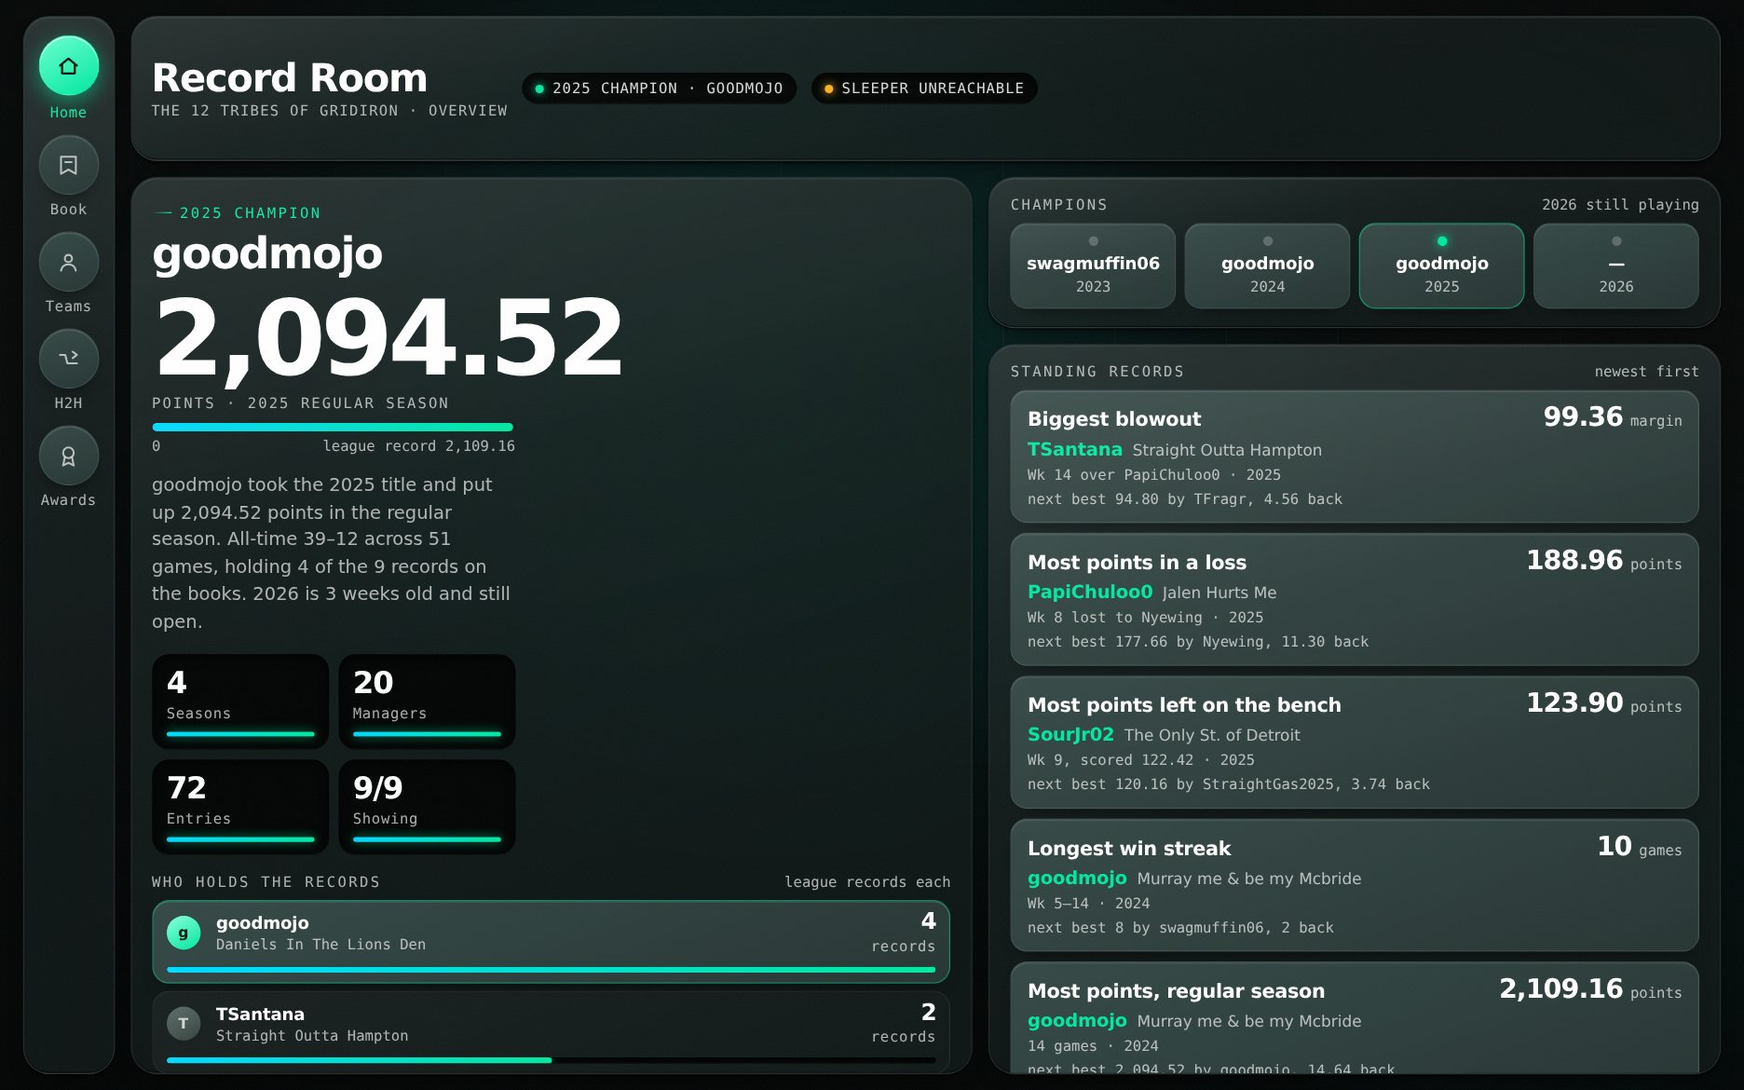
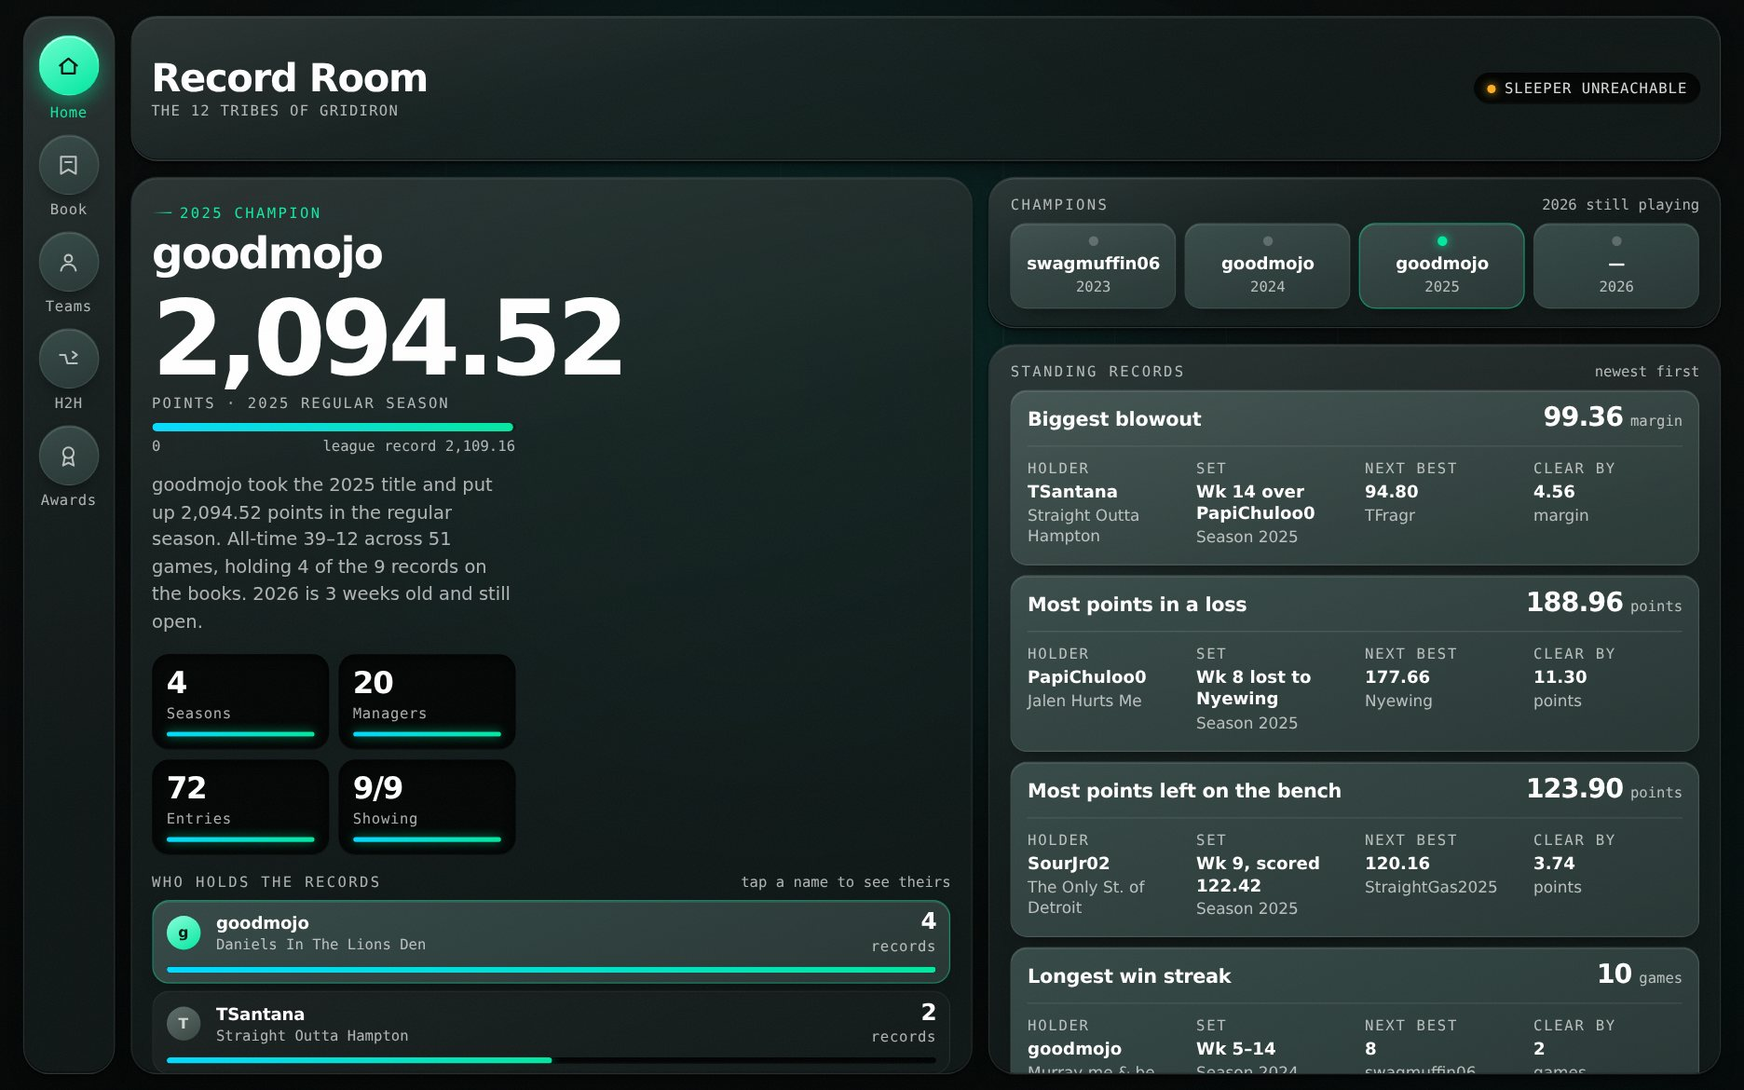
Give the standing records structure, trim the header, open a holder
The standing records read as a paragraph: four lines of similar weight with
nothing marking where one fact ended and the next began. Each record is now a
headline and value across the top, a rule, then four labelled fields -- holder
with their team that season, when it was set, the next best mark and who holds
it, and how far clear the record is. Long values wrap rather than truncate,
since "Wk 14 over Pa..." helps nobody.

The header carried the champion twice over: the hero states it directly below
and the champions panel sits beside it, and the page name repeated the dock
that already marks the page. Both are gone, leaving the app name, the league
and the live status.

The holders list is now clickable and opens that manager, which is where their
records already live. Verified: clicking the top row opens goodmojo with six
records listed.

Claude-Session: https://claude.ai/code/session_01TiNMvjTDK6Q7mnYRtzpeH8

diff --git a/public/index.html b/public/index.html
@@ -193,8 +193,16 @@ button{font:inherit;color:inherit}
 .tile .tb{height:4px;border-radius:999px;margin-top:8px;
   background:linear-gradient(90deg,var(--accent-2),var(--accent));box-shadow:0 0 8px rgba(0,232,160,.55)}
 .rtop{display:flex;align-items:baseline;justify-content:space-between;gap:12px}
-.rnext{display:block;font-family:var(--mono);font-size:12px;color:var(--ink-3);margin-top:6px;
-  overflow:hidden;text-overflow:ellipsis;white-space:nowrap}
+.rvwrap{flex:none;white-space:nowrap}
+.rmeta{display:grid;grid-template-columns:repeat(auto-fit,minmax(118px,1fr));gap:12px 16px;align-items:start;
+  margin-top:11px;padding-top:11px;border-top:1px solid rgba(255,255,255,.1)}
+.rf{min-width:0}
+.rfk{display:block;font-family:var(--mono);font-size:12px;letter-spacing:.11em;text-transform:uppercase;
+  color:var(--ink-3)}
+.rfv{display:block;font-size:14px;font-weight:600;margin-top:4px;line-height:1.3;
+  white-space:normal;overflow-wrap:break-word}
+.rfs{display:block;font-size:13px;color:var(--ink-3);margin-top:3px;line-height:1.3;
+  white-space:normal;overflow-wrap:break-word}
 .ring{display:block;padding:12px 13px;border-radius:var(--r-s);border:1px solid rgba(255,255,255,.08);
   background:linear-gradient(160deg,var(--e2-hi),var(--e2));
   box-shadow:inset 0 1px 0 rgba(255,255,255,.1),0 8px 17px -12px rgba(0,0,0,.97);
@@ -224,7 +232,8 @@ button{font:inherit;color:inherit}
 .hb{display:grid;grid-template-columns:30px minmax(0,1fr) auto;gap:11px;align-items:center;
   padding:8px 11px;border-radius:var(--r-s);border:1px solid rgba(255,255,255,.05);
   background:linear-gradient(160deg,rgba(255,255,255,.048),rgba(255,255,255,.016));transition:transform .15s}
-.hb:hover{transform:translateY(-1px)}
+.hb{cursor:pointer}
+.hb:hover{transform:translateY(-1px);border-color:rgba(0,232,160,.4)}
 .hb.lead{border-color:rgba(0,232,160,.4);background:linear-gradient(160deg,var(--e2-hi),var(--e2));
   box-shadow:inset 0 1px 0 rgba(255,255,255,.12),0 8px 17px -12px rgba(0,0,0,.97)}
 .hb .hav{width:28px;height:28px;border-radius:50%;display:grid;place-items:center;font-family:var(--disp);
@@ -477,10 +486,9 @@ dialog::backdrop{background:rgba(2,5,4,.78);backdrop-filter:blur(3px)}
 
   <div class="col">
     <header class="panel glass bar">
-      <h1>Record Room<span id="crumb">Overview</span></h1>
-      <span class="chip"><i></i><span id="champChip"></span></span>
-      <button class="chip live" id="refreshBtn" type="button" title="Refresh from Sleeper"><i></i><span id="liveMsg">Loading</span></button>
+      <h1>Record Room<span id="crumb"></span></h1>
       <div class="barspace"></div>
+      <button class="chip live" id="refreshBtn" type="button" title="Refresh from Sleeper"><i></i><span id="liveMsg">Loading</span></button>
       <div class="pills" id="seasons" role="group" aria-label="Season" hidden></div>
     </header>
 
@@ -837,9 +845,10 @@ function renderHome(){
   visible().forEach(s=>{const b=best(s,'ALL');if(b)held[b[0]]++;});
   const rank=MGR.map(m=>({...m,held:held[m.name]})).sort((a,b)=>b.held-a.held||b.titles.length-a.titles.length||b.w-a.w);
   const owners=rank.filter(m=>m.held>0).length;
-  $('hbarNote').textContent='league records each';
+  $('hbarNote').textContent='tap a name to see theirs';
   $('hbars').innerHTML=rank.slice(0,8).map((m,i)=>`
-    <div class="hb${i===0?' lead':''}">
+    <div class="hb${i===0?' lead':''}" role="button" tabindex="0" data-m="${m.name}"
+      aria-label="Open ${m.name}">
       <span class="hav${m.titles.length?'':' none'}">${initial(m.name)}</span>
       <span><span class="hn">${m.name}</span><span class="hs">${teamNow(m.name)||'no team name set'}</span></span>
       <span class="hv">${m.held}<em>${m.held===1?'record':'records'}</em></span>
@@ -849,15 +858,20 @@ function renderHome(){
   $('hrecNote').textContent='newest first';
   $('hrecs').innerHTML=standing.map(({s,b})=>{
     const all=entries(s,'ALL'), second=all[1];
-    const gap=second?Math.abs(b[1]-second[1]):0;
+    const gap=second?Math.abs(b[1]-second[1]).toFixed(s.dec):null;
+    const f=(k,v,sub)=>`<div class="rf"><span class="rfk">${k}</span>
+      <span class="rfv">${v}</span>${sub?`<span class="rfs">${sub}</span>`:''}</div>`;
     return `<div class="ring">
       <div class="rtop">
         <div class="rlab">${s.name}</div>
-        <div><span class="rval">${fmt(s,b[1])}</span><span class="rvalu">${s.unit}</span></div>
+        <div class="rvwrap"><span class="rval">${fmt(s,b[1])}</span><span class="rvalu">${s.unit}</span></div>
       </div>
-      <div class="rhold"><span class="rman">${b[0]}</span><span class="rteam">${team(b[0],b[3])||''}</span></div>
-      <span class="rsub">${b[2]} · ${b[3]}</span>
-      ${second?`<span class="rnext">next best ${fmt(s,second[1])} by ${second[0]}, ${gap.toFixed(s.dec)} back</span>`:''}
+      <div class="rmeta">
+        ${f('Holder',b[0],team(b[0],b[3])||'no team name')}
+        ${f('Set',b[2],'Season '+b[3])}
+        ${second?f('Next best',fmt(s,second[1]),second[0]):f('Next best','—','only entry')}
+        ${gap?f('Clear by',gap,s.unit):''}
+      </div>
     </div>`;}).join('')
     ||`<div class="empty">No stats showing. Turn some on in the stat filter.</div>`;
 }
@@ -1054,7 +1068,7 @@ function go(p){
   document.querySelectorAll('.page').forEach(el=>el.dataset.on=el.id==='p-'+p?'1':'0');
   document.querySelectorAll('.nav').forEach(b=>{
     if(b.dataset.go===p)b.setAttribute('aria-current','page');else b.removeAttribute('aria-current');});
-  $('crumb').textContent=(DATA.league?DATA.league+' · ':'')+CRUMB[p];
+  $('crumb').textContent=DATA.league||'';
   $('seasons').hidden=p!=='records';
   if(p==='home'){renderHome();}
   if(p==='records'){renderStats();renderBoard();}
@@ -1085,7 +1099,7 @@ document.addEventListener('click',e=>{
   if(e.target.closest('#selNone')){shown.clear();renderStats();renderBoard();return;}
   const nmOpen=e.target.closest('[data-open]');if(nmOpen){
     sel=nmOpen.dataset.open;shown.add(sel);renderStats();renderBoard();return;}
-  const mc=e.target.closest('.mcard');if(mc){openMgr(mc.dataset.m);return;}
+  const mc=e.target.closest('.mcard,.hb');if(mc&&mc.dataset.m){openMgr(mc.dataset.m);return;}
   const pk=e.target.closest('.pk');if(pk&&!pk.disabled){
     if(pk.dataset.pick==='pickA')pA=pk.dataset.name;else pB=pk.dataset.name;
     renderPickers();renderH2H();return;}
@@ -1093,12 +1107,11 @@ document.addEventListener('click',e=>{
 document.addEventListener('keydown',e=>{
   if(e.key!=='Enter'&&e.key!==' ')return;
   const nmOpen=e.target.closest('[data-open]');
-  if(nmOpen){e.preventDefault();sel=nmOpen.dataset.open;shown.add(sel);renderStats();renderBoard();}
+  if(nmOpen){e.preventDefault();sel=nmOpen.dataset.open;shown.add(sel);renderStats();renderBoard();return;}
+  const hb=e.target.closest('.hb');
+  if(hb&&hb.dataset.m){e.preventDefault();openMgr(hb.dataset.m);}
 });
-function paintAll(){
-  $('champChip').textContent=CHAMP_YEAR+' champion · '+CHAMP;
-  paintSeasons();go(page);
-}
+function paintAll(){paintSeasons();go(page);}
 const CACHE='recordroom.v1.'+LEAGUE_ID;
 const clock=t=>new Date(t).toLocaleString(undefined,{month:'short',day:'numeric',hour:'numeric',minute:'2-digit'});
 function setLive(state,msg){

diff --git a/samples/record-room-standalone.html b/samples/record-room-standalone.html
@@ -193,8 +193,16 @@ button{font:inherit;color:inherit}
 .tile .tb{height:4px;border-radius:999px;margin-top:8px;
   background:linear-gradient(90deg,var(--accent-2),var(--accent));box-shadow:0 0 8px rgba(0,232,160,.55)}
 .rtop{display:flex;align-items:baseline;justify-content:space-between;gap:12px}
-.rnext{display:block;font-family:var(--mono);font-size:12px;color:var(--ink-3);margin-top:6px;
-  overflow:hidden;text-overflow:ellipsis;white-space:nowrap}
+.rvwrap{flex:none;white-space:nowrap}
+.rmeta{display:grid;grid-template-columns:repeat(auto-fit,minmax(118px,1fr));gap:12px 16px;align-items:start;
+  margin-top:11px;padding-top:11px;border-top:1px solid rgba(255,255,255,.1)}
+.rf{min-width:0}
+.rfk{display:block;font-family:var(--mono);font-size:12px;letter-spacing:.11em;text-transform:uppercase;
+  color:var(--ink-3)}
+.rfv{display:block;font-size:14px;font-weight:600;margin-top:4px;line-height:1.3;
+  white-space:normal;overflow-wrap:break-word}
+.rfs{display:block;font-size:13px;color:var(--ink-3);margin-top:3px;line-height:1.3;
+  white-space:normal;overflow-wrap:break-word}
 .ring{display:block;padding:12px 13px;border-radius:var(--r-s);border:1px solid rgba(255,255,255,.08);
   background:linear-gradient(160deg,var(--e2-hi),var(--e2));
   box-shadow:inset 0 1px 0 rgba(255,255,255,.1),0 8px 17px -12px rgba(0,0,0,.97);
@@ -224,7 +232,8 @@ button{font:inherit;color:inherit}
 .hb{display:grid;grid-template-columns:30px minmax(0,1fr) auto;gap:11px;align-items:center;
   padding:8px 11px;border-radius:var(--r-s);border:1px solid rgba(255,255,255,.05);
   background:linear-gradient(160deg,rgba(255,255,255,.048),rgba(255,255,255,.016));transition:transform .15s}
-.hb:hover{transform:translateY(-1px)}
+.hb{cursor:pointer}
+.hb:hover{transform:translateY(-1px);border-color:rgba(0,232,160,.4)}
 .hb.lead{border-color:rgba(0,232,160,.4);background:linear-gradient(160deg,var(--e2-hi),var(--e2));
   box-shadow:inset 0 1px 0 rgba(255,255,255,.12),0 8px 17px -12px rgba(0,0,0,.97)}
 .hb .hav{width:28px;height:28px;border-radius:50%;display:grid;place-items:center;font-family:var(--disp);
@@ -477,10 +486,9 @@ dialog::backdrop{background:rgba(2,5,4,.78);backdrop-filter:blur(3px)}
 
   <div class="col">
     <header class="panel glass bar">
-      <h1>Record Room<span id="crumb">Overview</span></h1>
-      <span class="chip"><i></i><span id="champChip"></span></span>
-      <button class="chip live" id="refreshBtn" type="button" title="Refresh from Sleeper"><i></i><span id="liveMsg">Loading</span></button>
+      <h1>Record Room<span id="crumb"></span></h1>
       <div class="barspace"></div>
+      <button class="chip live" id="refreshBtn" type="button" title="Refresh from Sleeper"><i></i><span id="liveMsg">Loading</span></button>
       <div class="pills" id="seasons" role="group" aria-label="Season" hidden></div>
     </header>
 
@@ -837,9 +845,10 @@ function renderHome(){
   visible().forEach(s=>{const b=best(s,'ALL');if(b)held[b[0]]++;});
   const rank=MGR.map(m=>({...m,held:held[m.name]})).sort((a,b)=>b.held-a.held||b.titles.length-a.titles.length||b.w-a.w);
   const owners=rank.filter(m=>m.held>0).length;
-  $('hbarNote').textContent='league records each';
+  $('hbarNote').textContent='tap a name to see theirs';
   $('hbars').innerHTML=rank.slice(0,8).map((m,i)=>`
-    <div class="hb${i===0?' lead':''}">
+    <div class="hb${i===0?' lead':''}" role="button" tabindex="0" data-m="${m.name}"
+      aria-label="Open ${m.name}">
       <span class="hav${m.titles.length?'':' none'}">${initial(m.name)}</span>
       <span><span class="hn">${m.name}</span><span class="hs">${teamNow(m.name)||'no team name set'}</span></span>
       <span class="hv">${m.held}<em>${m.held===1?'record':'records'}</em></span>
@@ -849,15 +858,20 @@ function renderHome(){
   $('hrecNote').textContent='newest first';
   $('hrecs').innerHTML=standing.map(({s,b})=>{
     const all=entries(s,'ALL'), second=all[1];
-    const gap=second?Math.abs(b[1]-second[1]):0;
+    const gap=second?Math.abs(b[1]-second[1]).toFixed(s.dec):null;
+    const f=(k,v,sub)=>`<div class="rf"><span class="rfk">${k}</span>
+      <span class="rfv">${v}</span>${sub?`<span class="rfs">${sub}</span>`:''}</div>`;
     return `<div class="ring">
       <div class="rtop">
         <div class="rlab">${s.name}</div>
-        <div><span class="rval">${fmt(s,b[1])}</span><span class="rvalu">${s.unit}</span></div>
+        <div class="rvwrap"><span class="rval">${fmt(s,b[1])}</span><span class="rvalu">${s.unit}</span></div>
       </div>
-      <div class="rhold"><span class="rman">${b[0]}</span><span class="rteam">${team(b[0],b[3])||''}</span></div>
-      <span class="rsub">${b[2]} · ${b[3]}</span>
-      ${second?`<span class="rnext">next best ${fmt(s,second[1])} by ${second[0]}, ${gap.toFixed(s.dec)} back</span>`:''}
+      <div class="rmeta">
+        ${f('Holder',b[0],team(b[0],b[3])||'no team name')}
+        ${f('Set',b[2],'Season '+b[3])}
+        ${second?f('Next best',fmt(s,second[1]),second[0]):f('Next best','—','only entry')}
+        ${gap?f('Clear by',gap,s.unit):''}
+      </div>
     </div>`;}).join('')
     ||`<div class="empty">No stats showing. Turn some on in the stat filter.</div>`;
 }
@@ -1054,7 +1068,7 @@ function go(p){
   document.querySelectorAll('.page').forEach(el=>el.dataset.on=el.id==='p-'+p?'1':'0');
   document.querySelectorAll('.nav').forEach(b=>{
     if(b.dataset.go===p)b.setAttribute('aria-current','page');else b.removeAttribute('aria-current');});
-  $('crumb').textContent=(DATA.league?DATA.league+' · ':'')+CRUMB[p];
+  $('crumb').textContent=DATA.league||'';
   $('seasons').hidden=p!=='records';
   if(p==='home'){renderHome();}
   if(p==='records'){renderStats();renderBoard();}
@@ -1085,7 +1099,7 @@ document.addEventListener('click',e=>{
   if(e.target.closest('#selNone')){shown.clear();renderStats();renderBoard();return;}
   const nmOpen=e.target.closest('[data-open]');if(nmOpen){
     sel=nmOpen.dataset.open;shown.add(sel);renderStats();renderBoard();return;}
-  const mc=e.target.closest('.mcard');if(mc){openMgr(mc.dataset.m);return;}
+  const mc=e.target.closest('.mcard,.hb');if(mc&&mc.dataset.m){openMgr(mc.dataset.m);return;}
   const pk=e.target.closest('.pk');if(pk&&!pk.disabled){
     if(pk.dataset.pick==='pickA')pA=pk.dataset.name;else pB=pk.dataset.name;
     renderPickers();renderH2H();return;}
@@ -1093,12 +1107,11 @@ document.addEventListener('click',e=>{
 document.addEventListener('keydown',e=>{
   if(e.key!=='Enter'&&e.key!==' ')return;
   const nmOpen=e.target.closest('[data-open]');
-  if(nmOpen){e.preventDefault();sel=nmOpen.dataset.open;shown.add(sel);renderStats();renderBoard();}
+  if(nmOpen){e.preventDefault();sel=nmOpen.dataset.open;shown.add(sel);renderStats();renderBoard();return;}
+  const hb=e.target.closest('.hb');
+  if(hb&&hb.dataset.m){e.preventDefault();openMgr(hb.dataset.m);}
 });
-function paintAll(){
-  $('champChip').textContent=CHAMP_YEAR+' champion · '+CHAMP;
-  paintSeasons();go(page);
-}
+function paintAll(){paintSeasons();go(page);}
 const CACHE='recordroom.v1.'+LEAGUE_ID;
 const clock=t=>new Date(t).toLocaleString(undefined,{month:'short',day:'numeric',hour:'numeric',minute:'2-digit'});
 function setLive(state,msg){

diff --git a/samples/record-room.html b/samples/record-room.html
@@ -187,8 +187,16 @@ button{font:inherit;color:inherit}
 .tile .tb{height:4px;border-radius:999px;margin-top:8px;
   background:linear-gradient(90deg,var(--accent-2),var(--accent));box-shadow:0 0 8px rgba(0,232,160,.55)}
 .rtop{display:flex;align-items:baseline;justify-content:space-between;gap:12px}
-.rnext{display:block;font-family:var(--mono);font-size:12px;color:var(--ink-3);margin-top:6px;
-  overflow:hidden;text-overflow:ellipsis;white-space:nowrap}
+.rvwrap{flex:none;white-space:nowrap}
+.rmeta{display:grid;grid-template-columns:repeat(auto-fit,minmax(118px,1fr));gap:12px 16px;align-items:start;
+  margin-top:11px;padding-top:11px;border-top:1px solid rgba(255,255,255,.1)}
+.rf{min-width:0}
+.rfk{display:block;font-family:var(--mono);font-size:12px;letter-spacing:.11em;text-transform:uppercase;
+  color:var(--ink-3)}
+.rfv{display:block;font-size:14px;font-weight:600;margin-top:4px;line-height:1.3;
+  white-space:normal;overflow-wrap:break-word}
+.rfs{display:block;font-size:13px;color:var(--ink-3);margin-top:3px;line-height:1.3;
+  white-space:normal;overflow-wrap:break-word}
 .ring{display:block;padding:12px 13px;border-radius:var(--r-s);border:1px solid rgba(255,255,255,.08);
   background:linear-gradient(160deg,var(--e2-hi),var(--e2));
   box-shadow:inset 0 1px 0 rgba(255,255,255,.1),0 8px 17px -12px rgba(0,0,0,.97);
@@ -218,7 +226,8 @@ button{font:inherit;color:inherit}
 .hb{display:grid;grid-template-columns:30px minmax(0,1fr) auto;gap:11px;align-items:center;
   padding:8px 11px;border-radius:var(--r-s);border:1px solid rgba(255,255,255,.05);
   background:linear-gradient(160deg,rgba(255,255,255,.048),rgba(255,255,255,.016));transition:transform .15s}
-.hb:hover{transform:translateY(-1px)}
+.hb{cursor:pointer}
+.hb:hover{transform:translateY(-1px);border-color:rgba(0,232,160,.4)}
 .hb.lead{border-color:rgba(0,232,160,.4);background:linear-gradient(160deg,var(--e2-hi),var(--e2));
   box-shadow:inset 0 1px 0 rgba(255,255,255,.12),0 8px 17px -12px rgba(0,0,0,.97)}
 .hb .hav{width:28px;height:28px;border-radius:50%;display:grid;place-items:center;font-family:var(--disp);
@@ -468,10 +477,9 @@ dialog::backdrop{background:rgba(2,5,4,.78);backdrop-filter:blur(3px)}
 
   <div class="col">
     <header class="panel glass bar">
-      <h1>Record Room<span id="crumb">Overview</span></h1>
-      <span class="chip"><i></i><span id="champChip"></span></span>
-      <button class="chip live" id="refreshBtn" type="button" title="Refresh from Sleeper"><i></i><span id="liveMsg">Loading</span></button>
+      <h1>Record Room<span id="crumb"></span></h1>
       <div class="barspace"></div>
+      <button class="chip live" id="refreshBtn" type="button" title="Refresh from Sleeper"><i></i><span id="liveMsg">Loading</span></button>
       <div class="pills" id="seasons" role="group" aria-label="Season" hidden></div>
     </header>
 
@@ -828,9 +836,10 @@ function renderHome(){
   visible().forEach(s=>{const b=best(s,'ALL');if(b)held[b[0]]++;});
   const rank=MGR.map(m=>({...m,held:held[m.name]})).sort((a,b)=>b.held-a.held||b.titles.length-a.titles.length||b.w-a.w);
   const owners=rank.filter(m=>m.held>0).length;
-  $('hbarNote').textContent='league records each';
+  $('hbarNote').textContent='tap a name to see theirs';
   $('hbars').innerHTML=rank.slice(0,8).map((m,i)=>`
-    <div class="hb${i===0?' lead':''}">
+    <div class="hb${i===0?' lead':''}" role="button" tabindex="0" data-m="${m.name}"
+      aria-label="Open ${m.name}">
       <span class="hav${m.titles.length?'':' none'}">${initial(m.name)}</span>
       <span><span class="hn">${m.name}</span><span class="hs">${teamNow(m.name)||'no team name set'}</span></span>
       <span class="hv">${m.held}<em>${m.held===1?'record':'records'}</em></span>
@@ -840,15 +849,20 @@ function renderHome(){
   $('hrecNote').textContent='newest first';
   $('hrecs').innerHTML=standing.map(({s,b})=>{
     const all=entries(s,'ALL'), second=all[1];
-    const gap=second?Math.abs(b[1]-second[1]):0;
+    const gap=second?Math.abs(b[1]-second[1]).toFixed(s.dec):null;
+    const f=(k,v,sub)=>`<div class="rf"><span class="rfk">${k}</span>
+      <span class="rfv">${v}</span>${sub?`<span class="rfs">${sub}</span>`:''}</div>`;
     return `<div class="ring">
       <div class="rtop">
         <div class="rlab">${s.name}</div>
-        <div><span class="rval">${fmt(s,b[1])}</span><span class="rvalu">${s.unit}</span></div>
+        <div class="rvwrap"><span class="rval">${fmt(s,b[1])}</span><span class="rvalu">${s.unit}</span></div>
       </div>
-      <div class="rhold"><span class="rman">${b[0]}</span><span class="rteam">${team(b[0],b[3])||''}</span></div>
-      <span class="rsub">${b[2]} · ${b[3]}</span>
-      ${second?`<span class="rnext">next best ${fmt(s,second[1])} by ${second[0]}, ${gap.toFixed(s.dec)} back</span>`:''}
+      <div class="rmeta">
+        ${f('Holder',b[0],team(b[0],b[3])||'no team name')}
+        ${f('Set',b[2],'Season '+b[3])}
+        ${second?f('Next best',fmt(s,second[1]),second[0]):f('Next best','—','only entry')}
+        ${gap?f('Clear by',gap,s.unit):''}
+      </div>
     </div>`;}).join('')
     ||`<div class="empty">No stats showing. Turn some on in the stat filter.</div>`;
 }
@@ -1045,7 +1059,7 @@ function go(p){
   document.querySelectorAll('.page').forEach(el=>el.dataset.on=el.id==='p-'+p?'1':'0');
   document.querySelectorAll('.nav').forEach(b=>{
     if(b.dataset.go===p)b.setAttribute('aria-current','page');else b.removeAttribute('aria-current');});
-  $('crumb').textContent=(DATA.league?DATA.league+' · ':'')+CRUMB[p];
+  $('crumb').textContent=DATA.league||'';
   $('seasons').hidden=p!=='records';
   if(p==='home'){renderHome();}
   if(p==='records'){renderStats();renderBoard();}
@@ -1076,7 +1090,7 @@ document.addEventListener('click',e=>{
   if(e.target.closest('#selNone')){shown.clear();renderStats();renderBoard();return;}
   const nmOpen=e.target.closest('[data-open]');if(nmOpen){
     sel=nmOpen.dataset.open;shown.add(sel);renderStats();renderBoard();return;}
-  const mc=e.target.closest('.mcard');if(mc){openMgr(mc.dataset.m);return;}
+  const mc=e.target.closest('.mcard,.hb');if(mc&&mc.dataset.m){openMgr(mc.dataset.m);return;}
   const pk=e.target.closest('.pk');if(pk&&!pk.disabled){
     if(pk.dataset.pick==='pickA')pA=pk.dataset.name;else pB=pk.dataset.name;
     renderPickers();renderH2H();return;}
@@ -1084,12 +1098,11 @@ document.addEventListener('click',e=>{
 document.addEventListener('keydown',e=>{
   if(e.key!=='Enter'&&e.key!==' ')return;
   const nmOpen=e.target.closest('[data-open]');
-  if(nmOpen){e.preventDefault();sel=nmOpen.dataset.open;shown.add(sel);renderStats();renderBoard();}
+  if(nmOpen){e.preventDefault();sel=nmOpen.dataset.open;shown.add(sel);renderStats();renderBoard();return;}
+  const hb=e.target.closest('.hb');
+  if(hb&&hb.dataset.m){e.preventDefault();openMgr(hb.dataset.m);}
 });
-function paintAll(){
-  $('champChip').textContent=CHAMP_YEAR+' champion · '+CHAMP;
-  paintSeasons();go(page);
-}
+function paintAll(){paintSeasons();go(page);}
 const CACHE='recordroom.v1.'+LEAGUE_ID;
 const clock=t=>new Date(t).toLocaleString(undefined,{month:'short',day:'numeric',hour:'numeric',minute:'2-digit'});
 function setLive(state,msg){
